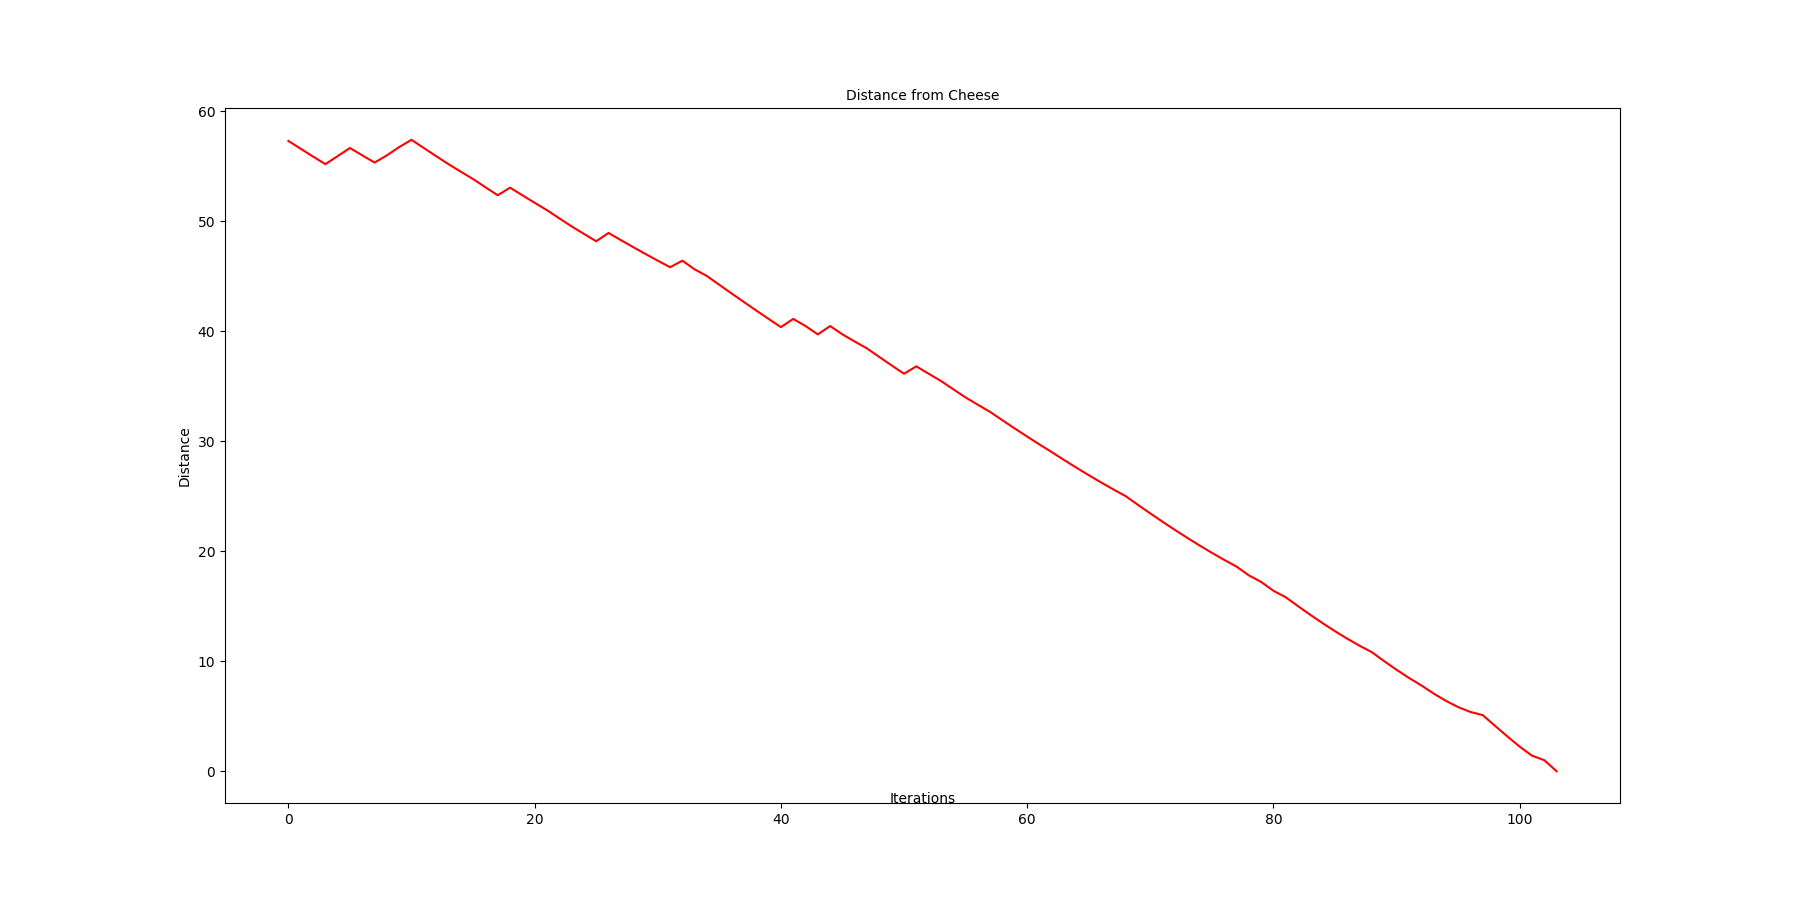
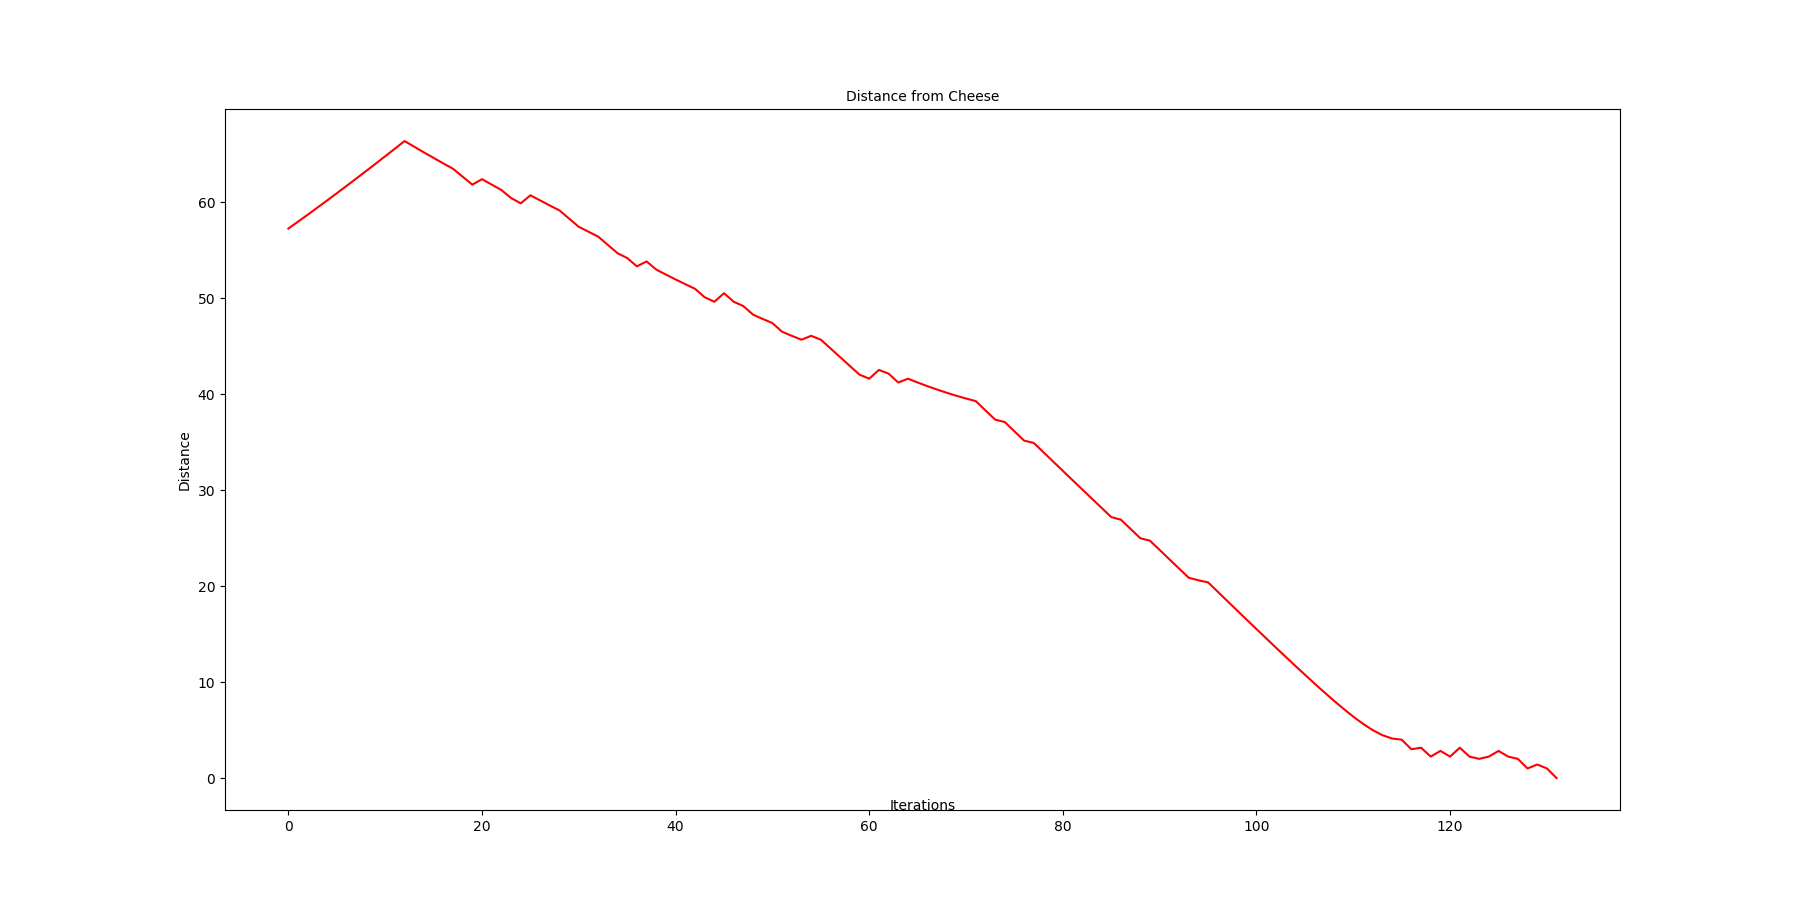
code refactor

diff --git a/FindCheese.py b/FindCheese.py
@@ -1,0 +1,122 @@
+#!/usr/bin/env python3
+# -*- coding: utf-8 -*-
+"""
+description : Experiment with coding adaptive random walk
+author      : bveitch
+version     : 1.0
+project     : MouseAndCheese (experiments with random walks)
+date        : Friday 19th February  
+
+
+Code to illustrate how an artificial mouse might adapt its programmed behaviour 
+to find cheese which it can only ‘smell’. In short, given a grid position the mouse will move to a 
+neighbouring position at random, but as information is learned as to the ’strength’ of the smell
+ these probabilities are updated and the mouse will converge to the cheese. 
+
+This was intended as a bit of fun to illustrate some basic concepts from 
+reinforcement learning and random walks. I suppose it could equally help students think about problem design,
+simplification and abstraction. I warn you the code is somewhat hacky right now, there is a bug 
+(when mouse encounters an edge, which I ought to fix) and it needs a better design for a ‘Mouse’ object 
+having clearly defined state and actions. 
+
+I wondered if this might make a decent project or lab demonstration? 
+   
+"""
+
+import numpy as np
+import matplotlib.pyplot as plt
+
+import math
+
+import World as wld
+import Mouse as mouseagent
+
+def plot_convergence(distances_from_cheese,fname):
+    niterations=len(distances_from_cheese)
+    fig, ax=plt.subplots(1,1,squeeze=False, figsize=(18,10))
+    ax[0,0].set_title("Distance from Cheese",fontsize=10)
+    ax[0,0].set_xlabel('Iterations')
+    ax[0,0].xaxis.labelpad=-25
+    ax[0,0].set_ylabel('Distance')
+    ax[0,0].plot(range(niterations), distances_from_cheese , 'r')
+    plt.show()
+    if(fname is not None):  
+        plt.savefig(fname)
+        
+def plot_mouse_positions(history,cheese_position,fname):
+    fig, ax = plt.subplots()
+    ax.set_title("Mouse searching for cheese",fontsize=10)
+    ax.set_xlabel('x position')
+    ax.set_ylabel('y position')
+
+    ax.plot(history[0][0], history[0][1], 'b', marker='^',label='mouse')
+    ax.plot(cheese_position[0], cheese_position[1], 'k', marker='x',label='cheese')
+    ax.axis(xmin = 0, xmax = nx)
+    ax.axis(ymin = 0, ymax = ny)
+    for i in range(len(history)-1):
+        pos0=history[i]
+        pos1=history[i+1]
+        ax.arrow(pos0[0], pos0[1], pos1[0]-pos0[0], pos1[1]-pos0[1], head_width=0.02, head_length=0.025, fc='b', ec='b')
+    
+    ax.legend(loc='lower right',shadow=True)
+    plt.show()
+    if(fname is not None):  
+        plt.savefig(fname)
+ 
+    
+cheeseValue   = +100
+
+nx=100
+ny=100
+
+cheesePos=[90,91]
+discount=1.0
+memsize=10
+    
+mouse_pos=[math.floor((nx+1)/2),math.floor((ny+1)/2)]
+print(mouse_pos)
+directions=['left','right','up','down']     
+
+world=wld.World(nx,ny,mouse_pos)
+world.add_cheese(cheesePos,cheeseValue)
+smell = world.get_smell()
+
+mouse=mouseagent.Mouse(directions,memsize)
+number_iterations = 200
+
+history=[]
+distances_from_cheese=[]
+
+
+for i in range(number_iterations):
+    
+    mouse_position = world.get_position()
+    history.append([mouse_position[0],mouse_position[1]])
+    
+    d = world.get_distance_from_cheese(cheesePos)
+    distances_from_cheese.append(d) 
+    
+    # check for solution
+    if(mouse_position==cheesePos):
+        print('Yay! The mouse found the cheese')
+        break
+    #get a direction from existing probabilities
+    step = mouse.get_step()
+  
+    print("iteration = ", i, "direction = ", step)
+    #move to a new position in direction
+    world.update_mouse_position(step)
+    #update states
+   
+    #sniff this position
+    smell = world.get_smell()
+    #update mouse's memory
+    mouse.update_memory(step,smell)
+    
+    #calculate weights for next step (hard bit)
+    mouse.update_step_weights()
+
+#done, let's plot stuff:
+plot_convergence(distances_from_cheese,'convergence.png')
+
+plot_mouse_positions(history,cheesePos,'mouse_finds_cheese.png')

diff --git a/Mouse.py b/Mouse.py
@@ -1,0 +1,87 @@
+#!/usr/bin/env python3
+# -*- coding: utf-8 -*-
+"""
+description : Mouse object to intercact with a world 
+author      : bveitch
+version     : 1.0
+project     : MouseAndCheese (experiments with random walks)
+date        : Friday 19th February  
+
+"""
+
+import numpy as np
+import random
+  
+class MemoryBank:
+
+    def __init__(self,memsize):
+        self.memory =[['none',0]]*memsize
+        self.current_smell = 0
+        print(self.memory)
+
+    def size(self):
+        return len(self.memory)
+
+    def update(self,step,smell):
+        self.memory.pop(0)
+        self.memory.append([step,smell-self.current_smell])
+        self.current_smell=smell
+
+    def get_step_weights(self,directions):
+        
+        weights = np.zeros(len(directions))
+        counts=[0]*len(directions)
+        for m in self.memory[::-1]:
+        
+            for i in range(len(directions)):
+                direction = directions[i]
+                if m[0]==direction:
+                    weights[i]+=m[1]
+                    counts[i]+=1
+    
+        #take means over counts:
+        for i in range(len(directions)):
+            if(counts[i]>0):
+                weights[i]/=counts[i]
+        
+        #make all positive:
+        minimum=np.min(weights)
+        weights-=minimum
+ 
+        #convert to a probability:
+        total=np.sum(weights)
+        weights/=total
+        
+        return weights
+
+class Mouse:
+    
+    def __init__(self, directions, memsize=10):
+        self.directions = directions
+        self.memorybank = MemoryBank(memsize)
+        self.step_weights=0.25*np.ones(len(directions))
+        self.discount=1.0
+
+    def update_memory(self,step,smell):
+        self.memorybank.update(step,smell)
+
+    def update_step_weights(self):
+
+        weights=self.step_weights
+    
+        new_weights = self.memorybank.get_step_weights(self.directions)
+    
+        #add on new weights
+        weights+=self.discount*new_weights
+    
+        #recalibrate to probability once more
+        total=sum(weights) 
+        weights/=total
+            
+        self.step_weights=np.copy(weights)
+              
+    def get_step(self):
+        direction = random.choices(self.directions, weights = self.step_weights, k = 1)
+        return direction[0]
+ 
+ 

diff --git a/World.py b/World.py
@@ -1,0 +1,63 @@
+#!/usr/bin/env python3
+# -*- coding: utf-8 -*-
+"""
+description : World object for mouse to move in
+author      : bveitch
+version     : 1.0
+project     : MouseAndCheese (experiments with random walks)
+date        : Friday 19th February  
+
+"""
+
+import numpy as np
+import math
+
+def get_distance(A,B):
+        xA=A[0]
+        yA=A[1]
+        xB=B[0]
+        yB=B[1]
+        distance=math.sqrt((xA-xB)**2 +(yA-yB)**2)
+        return distance
+
+class World:
+    
+    def __init__(self, nx, ny, mouse_position):
+        self.nx = nx
+        self.ny = ny
+        self.grid=np.zeros((nx,ny))
+        self.mouse_position = mouse_position
+        
+    def add_cheese(self,position, value):
+        self.grid[position[0],position[1]]=value
+    
+    def get_position(self):
+        return self.mouse_position
+    
+    def get_distance_from_cheese(self,cheese_position):
+        return get_distance(self.mouse_position, cheese_position)
+    
+    def get_smell(self):
+        xpos=self.mouse_position[0]
+        ypos=self.mouse_position[1]
+    
+        smell=0
+        for ix in range(self.nx):
+            for iy in range(self.ny):
+                if(ix!=xpos and iy!=ypos):
+                    d=get_distance([xpos,ypos],[ix,iy])
+                    smell+=self.grid[ix,iy]/d**2
+                
+        return smell
+        
+    def update_mouse_position(self,step):
+        if(step=='left' and self.mouse_position[0]!=0):
+            self.mouse_position[0]-=1
+        elif(step=='right' and self.mouse_position[0]!=self.nx-1):
+            self.mouse_position[0]+=1
+        elif(step=='down' and self.mouse_position[1]!=0):
+            self.mouse_position[1]-=1
+        elif(step=='up' and self.mouse_position[1]!=self.ny-1):
+            self.mouse_position[1]+=1 
+            
+        
